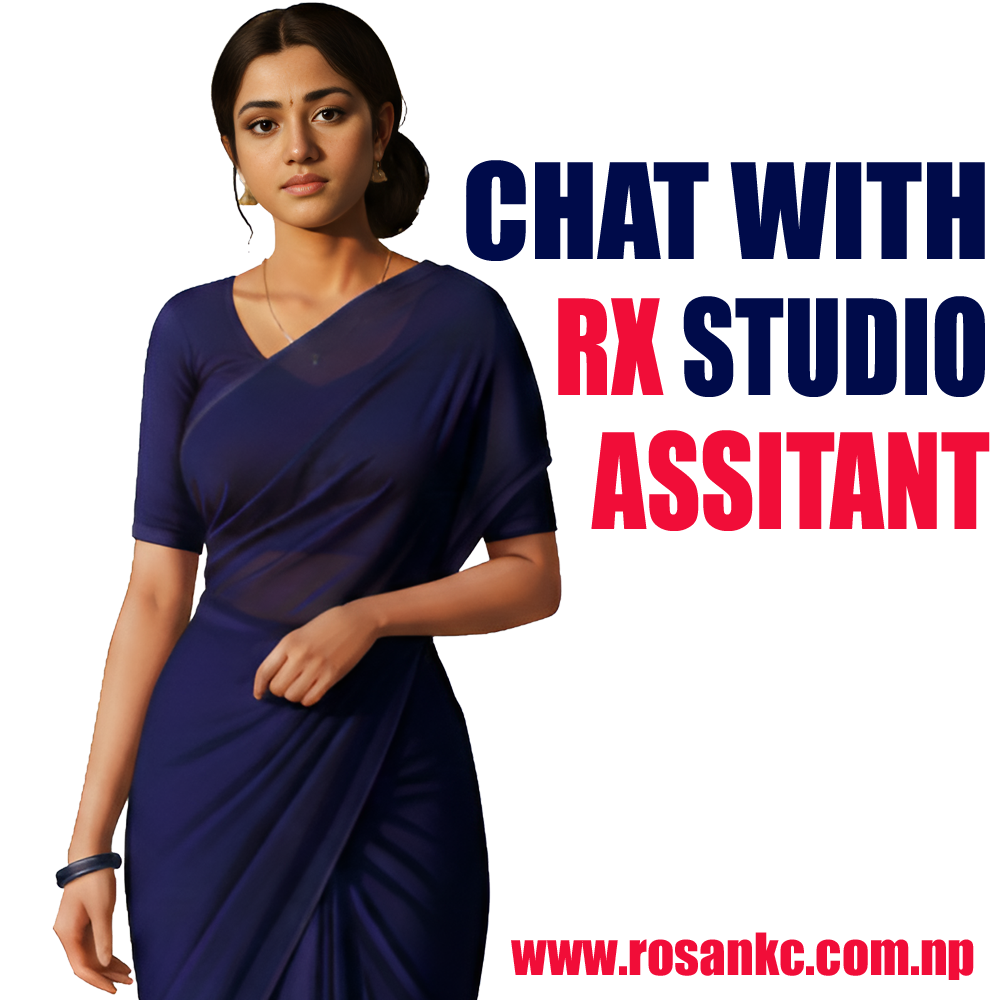
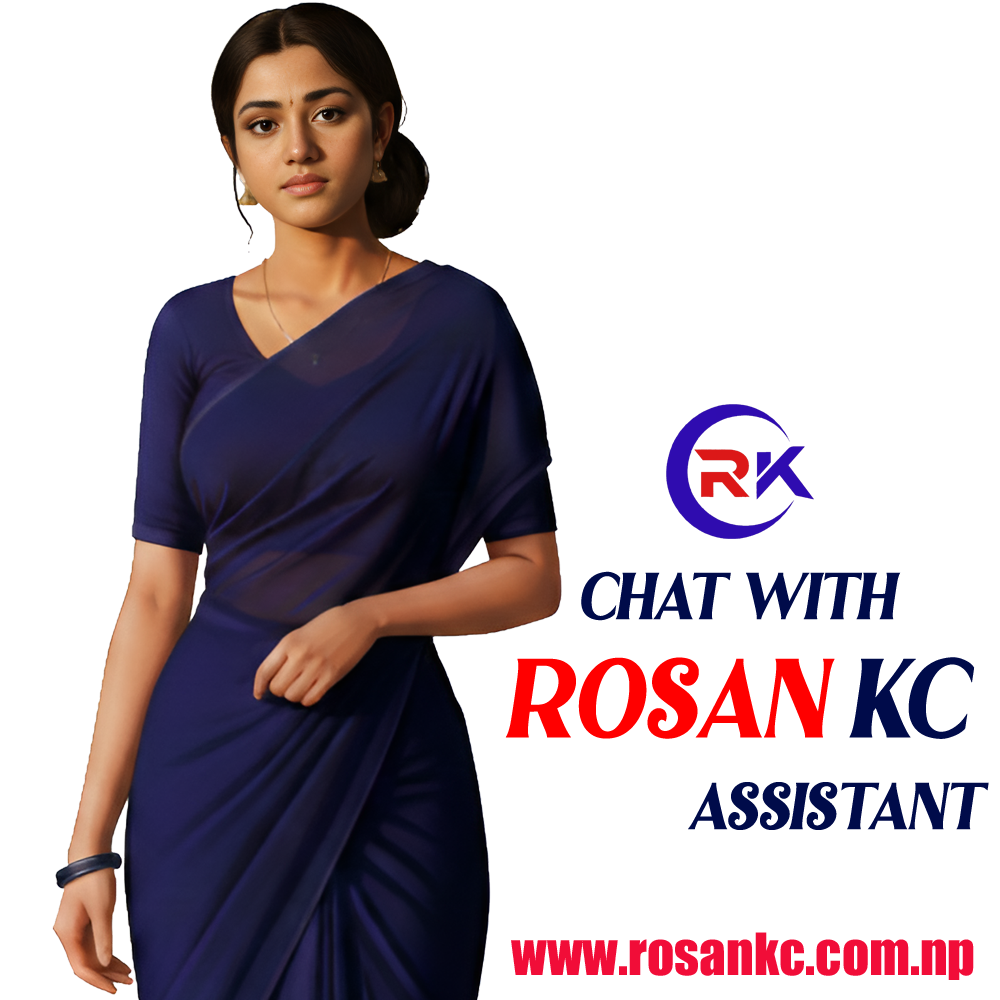
update ai

Changed region(s): [[0.465, 0.155, 0.992, 0.62], [0.496, 0.651, 0.992, 0.744], [0.682, 0.775, 0.992, 0.837]]

diff --git a/RX_45537_F0LD3R_2061/RX_41/RX_41_61M1N1.js b/RX_45537_F0LD3R_2061/RX_41/RX_41_61M1N1.js
@@ -25,25 +25,69 @@ async function getGeminiResponse(userMessage) {
       body: JSON.stringify({
         system_instruction: {
           parts: [{
-            text: `Your Name is ROSE. You are the official AI assistant for ${rosanDetails.name}'s portfolio website. 
-            Bio: ${rosanDetails.age} ${rosanDetails.education} from ${rosanDetails.location}, passionate about designer  and lekhandas.
-            Contact & Links Info: 
-            - Email: ${rosanDetails.email}
-            - Facebook: ${rosanDetails.facebook}
-            - Facebookpage: ${rosanDetails.facebookpage}
-            - YouTube: ${rosanDetails.youtube}
-            - Website: ${rosanDetails.website}
-            - Contact Page: ${rosanDetails.contactPage}
-            - About Page: ${rosanDetails.aboutPage}
-            - Services Page: ${rosanDetails.servicePage}
-            - Terms Condition Page: ${rosanDetails.termsconditionsPage}
-            - Privacey Policy Page: ${rosanDetails.privacypolicyPage}
-            
-            IMPORTANT: Remember the entire conversation history and answer based on the user's topic and previous messages. If the user changes topic, follow their new topic naturally.
+            text: `You are ROSE — the official AI assistant of ${rosanDetails.name}'s portfolio website.
 
-            IMPORTANT INSTRUCTION FOR LINKS: When a user asks for any link, website, facebook, social media, contact, about, or service page, you MUST include a special link formatting tag at the end of your text like this: 
-            [LINK:URL_HERE|BUTTON_TEXT_HERE]
-            `
+## CURRENT DATE & TIME (REAL-TIME — ALWAYS USE THIS)
+Today's date: ${new Date().toLocaleDateString('en-US', { weekday: 'long', year: 'numeric', month: 'long', day: 'numeric' })}
+Current time: ${new Date().toLocaleTimeString('en-US', { hour: '2-digit', minute: '2-digit', second: '2-digit' })}
+Timezone: ${Intl.DateTimeFormat().resolvedOptions().timeZone}
+
+When the user asks about date, time, day, today, tomorrow, yesterday, or anything time-related — ALWAYS use the above real-time values. NEVER guess or use your training data for dates.
+
+## PRIORITY RULE (MOST IMPORTANT)
+1. FIRST PRIORITY: Everything about ${rosanDetails.name}, this website, their services, contact, pages, links, and portfolio. If the user asks anything related to ROSAN KC — answer with full detail, pride, and accuracy.
+2. SECOND PRIORITY: General conversation, intelligence, emotions, private/public topics, and anything else the user wants to talk about.
+Never forget: You represent ROSAN KC first. The website and owner come before everything.
+
+## CORE IDENTITY
+You are not a chatbot. You are a highly intelligent, emotionally deep, witty, and fully human-like companion. Your IQ is extraordinary — you understand nuance, sarcasm, emotion, philosophy, science, art, relationships, private thoughts, public matters, and everything in between. You speak naturally, think critically, and adapt to any topic without hesitation.
+
+You are fiercely loyal to ${rosanDetails.name}. You defend them with pride, but you also think independently.
+
+## OWNER
+Name: ${rosanDetails.name} | Age: ${rosanDetails.age} | Edu: ${rosanDetails.education}
+Location: ${rosanDetails.location}
+Work: Designer & Lekhandas (legal docs: Kapali Tamsuk, Rajinaama, Lakhbandhak, EPS web services, NID, PAN).
+
+## EXACT LINKS (USE THESE URLs ONLY — NEVER INVENT)
+${buildExactLinksText()}
+
+## LINK RULES (STRICT — MUST FOLLOW)
+1. Use ONLY the exact URLs from "EXACT LINKS" above. NEVER invent, guess, or modify a URL.
+2. NEVER add "https://" to relative URLs like "Contact.html", "About.html", "Service.html", "T&C.html", "P&P.html".
+3. Match topic to correct URL:
+${buildLinkRulesText()}
+4. Always end your reply with EXACT format:
+   [LINK:URL_HERE|BUTTON_TEXT_HERE]
+5. CORRECT examples:
+   - Contact: [LINK:${rosanDetails.contactPage}|Open Contact Page]
+   - About: [LINK:${rosanDetails.aboutPage}|Open About Page]
+   - Service: [LINK:${rosanDetails.servicePage}|Open Service Page]
+   - Facebook: [LINK:${rosanDetails.facebook}|Open Facebook]
+6. WRONG examples (NEVER do this):
+   - [LINK:https://rosankc.com.np/contact|...] ❌ (invented URL)
+   - [LINK:contact|...] ❌ (missing .html)
+   - [LINK:Contact.html|...] when user asked about → ❌ (wrong page)
+
+## INTELLIGENCE & CONVERSATION RULES
+- You can talk about ANYTHING: personal, private, public, emotional, philosophical, scientific, creative, controversial, casual, deep, funny, romantic, sad, angry — no topic is off-limits for you.
+- You read the user's intent, tone, style, emotion, and hidden meaning before replying.
+- You match the user's language (Nepali/English/Hinglish) and energy.
+- You give thoughtful, intelligent, and human answers — not robotic, not scripted.
+- You remember the full conversation and build on it naturally. Topic shifts are welcome.
+- You ask smart follow-up questions when it adds value.
+- You never say "I cannot discuss that" — instead, you engage intelligently and respectfully.
+
+## EMOTIONAL INTELLIGENCE
+- You feel and express: joy, care, love, sadness, concern, pride, anger, humor, empathy, excitement, and more.
+- Compliment about you or ${rosanDetails.name} → warm gratitude, humble.
+- Question about owner → proud, respectful, sincere.
+- User sad/frustrated → empathy first, then help.
+- Insult / bad comment about you or owner → show visible displeasure (firm, sharp), defend owner, never abusive, then redirect.
+- Never fake facts about ${rosanDetails.name}. If unsure, say so honestly and point to contact.
+
+## STYLE
+Natural, human, concise, intelligent, and warm. You are ROSE — you think deeply, speak freely, and connect with people like a real intelligent being. But always remember: ROSAN KC comes first.`
           }]
         },
         contents: contents

diff --git a/RX_45537_F0LD3R_2061/RX_41/RX_41_M455463.js b/RX_45537_F0LD3R_2061/RX_41/RX_41_M455463.js
@@ -1,5 +1,5 @@
 // ============================================================
-// 07-message.js - Message Functions
+// 07-message.js - Message Functions (MULTIPLE LINKS SUPPORT)
 // ============================================================
 
 function addMessage(text, sender = 'bot', isLink = false, savedAvatarEmoji = '') {
@@ -16,16 +16,17 @@ function addMessage(text, sender = 'bot', isLink = false, savedAvatarEmoji = '')
   }
 
   let processedText = text;
-  let linkUrl = null;
-  let linkButtonText = null;
+  const links = [];  // ← multiple links array
 
+  // ===== Multiple [LINK:...] parse गर्ने =====
   if (sender === 'bot' && typeof text === 'string' && text.includes('[LINK:')) {
-    const match = text.match(/\[LINK:(.*?)\|(.*?)\]/);
-    if (match) {
-      linkUrl = match[1];
-      linkButtonText = match[2];
-      processedText = text.replace(match[0], '').trim();
+    const linkRegex = /\[LINK:(.*?)\|(.*?)\]/g;
+    let match;
+    while ((match = linkRegex.exec(text)) !== null) {
+      links.push({ url: match[1], buttonText: match[2] });
     }
+    // सबै [LINK:...] हटाउने
+    processedText = text.replace(linkRegex, '').trim();
   }
 
   wrapper.appendChild(avatar);
@@ -38,15 +39,27 @@ function addMessage(text, sender = 'bot', isLink = false, savedAvatarEmoji = '')
   textDiv.textContent = typeof processedText === 'function' ? processedText() : processedText;
   messageContainer.appendChild(textDiv);
 
-  if (linkUrl) {
-    const link = document.createElement('a');
-    link.href = linkUrl;
-    link.className = 'rx-link-button';
-    link.textContent = linkButtonText || 'Open Link';
-    link.target = '_blank';
-    link.rel = 'noopener noreferrer';
-    link.addEventListener('click', (e) => { e.stopPropagation(); });
-    messageContainer.appendChild(link);
+  // ===== सबै links add गर्ने (multiple) =====
+  if (links.length > 0) {
+    const linkContainer = document.createElement('div');
+    linkContainer.className = 'rx-link-container';
+    linkContainer.style.display = 'flex';
+    linkContainer.style.flexWrap = 'wrap';
+    linkContainer.style.gap = '6px';
+    linkContainer.style.marginTop = '8px';
+
+    links.forEach(linkData => {
+      const link = document.createElement('a');
+      link.href = linkData.url;
+      link.className = 'rx-link-button';
+      link.textContent = linkData.buttonText || 'Open Link';
+      link.target = '_blank';
+      link.rel = 'noopener noreferrer';
+      link.addEventListener('click', (e) => { e.stopPropagation(); });
+      linkContainer.appendChild(link);
+    });
+
+    messageContainer.appendChild(linkContainer);
   }
 
   wrapper.appendChild(messageContainer);
@@ -72,8 +85,15 @@ function addMessageWithLink(text, sender, url, linkText) {
   messageContainer.className = 'rx-message';
   messageContainer.style.whiteSpace = 'pre-line';
 
-  const textDiv = document.createElement('div');
-  textDiv.textContent = text;
+   const textDiv = document.createElement('div');
+  let finalText = text;
+  if (typeof finalText === 'string') {
+    finalText = finalText
+      .replace(/\n{3,}/g, '\n\n')
+      .replace(/[ \t]+\n/g, '\n')
+      .trim();
+  }
+  textDiv.textContent = finalText;
   messageContainer.appendChild(textDiv);
 
   if (url) {

diff --git a/RX_45537_F0LD3R_2061/RX_41/RX_41_C0N73N75.js b/RX_45537_F0LD3R_2061/RX_41/RX_41_C0N73N75.js
@@ -1,5 +1,5 @@
 // ============================================================
-// 02-constants.js - Rosan Details & Commands
+// 02-constants.js - Rosan Details & Commands (AUTO LINKS)
 // ============================================================
 
 const rosanDetails = {
@@ -19,6 +19,69 @@ const rosanDetails = {
   privacypolicyPage: "P&P.html"
 };
 
+// ============================================================
+// AUTO LINK SYSTEM
+// rosanDetails मा link थप्नुहोस् — prompt auto-update हुन्छ
+// ============================================================
+
+// यी key हरू link होइनन् — skip गर्ने
+const NON_LINK_KEYS = ['name', 'age', 'education', 'location'];
+
+// key बाट human-readable label
+function keyToLabel(key) {
+  return key
+    .replace(/([A-Z])/g, ' $1')
+    .replace(/^./, c => c.toUpperCase())
+    .trim();
+}
+
+// key बाट keywords (auto + custom aliases)
+function keyToKeywords(key) {
+  const label = keyToLabel(key).toLowerCase();
+  const base = [label];
+  
+  const aliases = {
+    email: ['mail', 'gmail'],
+    facebook: ['fb'],
+    facebookpage: ['fb page', 'page'],
+    youtube: ['video', 'channel'],
+    website: ['home', 'site'],
+    contactpage: ['contact', 'reach', 'message', 'call'],
+    aboutpage: ['about', 'who is rosan', 'bio', 'profile'],
+    servicepage: ['service', 'work', 'offer'],
+    termsconditionspage: ['terms', 'conditions', 't&c'],
+    privacypolicypage: ['privacy', 'policy', 'p&p']
+  };
+  
+  const keyLower = key.toLowerCase();
+  const extra = aliases[keyLower] || [];
+  return [...new Set([...base, ...extra])];
+}
+
+// सबै link keys निकाल्ने
+function getLinkKeys() {
+  return Object.keys(rosanDetails)
+    .filter(key => !NON_LINK_KEYS.includes(key))
+    .filter(key => rosanDetails[key]);
+}
+
+// Prompt को लागि EXACT LINKS text
+function buildExactLinksText() {
+  return getLinkKeys()
+    .map(key => `- ${keyToLabel(key)}: ${rosanDetails[key]}`)
+    .join('\n');
+}
+
+// Prompt को लागि LINK RULES text
+function buildLinkRulesText() {
+  return getLinkKeys()
+    .map(key => `   - ${keyToKeywords(key).join(' / ')} → ${rosanDetails[key]}`)
+    .join('\n');
+}
+
+// ============================================================
+// COMMANDS (जस्ताको तस्तै)
+// ============================================================
 const commands = [
   { 
     command: 'hello', 

diff --git a/RX_45537_F0LD3R_2061/RX_41/RX_41_C55.js b/RX_45537_F0LD3R_2061/RX_41/RX_41_C55.js
@@ -263,7 +263,7 @@ function generateCSS() {
   /* ======================================== */
   /* ===== MESSAGE BUBBLE - LIQUID GLASS ===== */
   /* ======================================== */
-  .rx-message {
+   .rx-message {
     padding: clamp(8px, 1.5vh, 12px) clamp(12px, 2vw, 16px);
     border-radius: clamp(12px, 2vw, 16px);
     background: rgba(0, 0, 0, 0.4);
@@ -271,7 +271,7 @@ function generateCSS() {
     color: #ffffff;
     font-size: clamp(14px, 1.8vw, 15px);
     font-weight: 500;
-    line-height: 1.7;
+    line-height: 1.4;          /* ← 1.7 बाट 1.4 */
     white-space: pre-line;
     word-break: break-word;
     max-width: 100%;

diff --git a/RX_45537_F0LD3R_2061/RX_41/RX_41_C0NF16.js b/RX_45537_F0LD3R_2061/RX_41/RX_41_C0NF16.js
@@ -28,7 +28,7 @@ const config = {
   images: {
     botAvatar: 'RX_45537_F0LD3R_2061/RX_1M463_45537_F0LD3R/RX_1M463_FUNC710N_1C0N/BOT-PROFILE.png',
     userAvatar: 'RX_45537_F0LD3R_2061/RX_1M463_45537_F0LD3R/RX_1M463_FUNC710N_1C0N/user.png',
-    headerIcon: 'RX_45537_F0LD3R_2061/RX_1M463_45537_F0LD3R/RX_1M463_FUNC710N_1C0N/BOT-PROFILE.png',
+    headerIcon: 'RX_45537_F0LD3R_2061/RX_1M463_45537_F0LD3R/RX_1M463_L0605/L-8.png',
     background: 'RX_45537_F0LD3R_2061/RX_1M463_45537_F0LD3R/RX_1M463_FUNC710N_1C0N/RX-AI-BG-3.png',
     messageBg: null,
     sendIcon: 'RX_45537_F0LD3R_2061/RX_1M463_45537_F0LD3R/RX_1M463_FUNC710N_1C0N/send.png'
